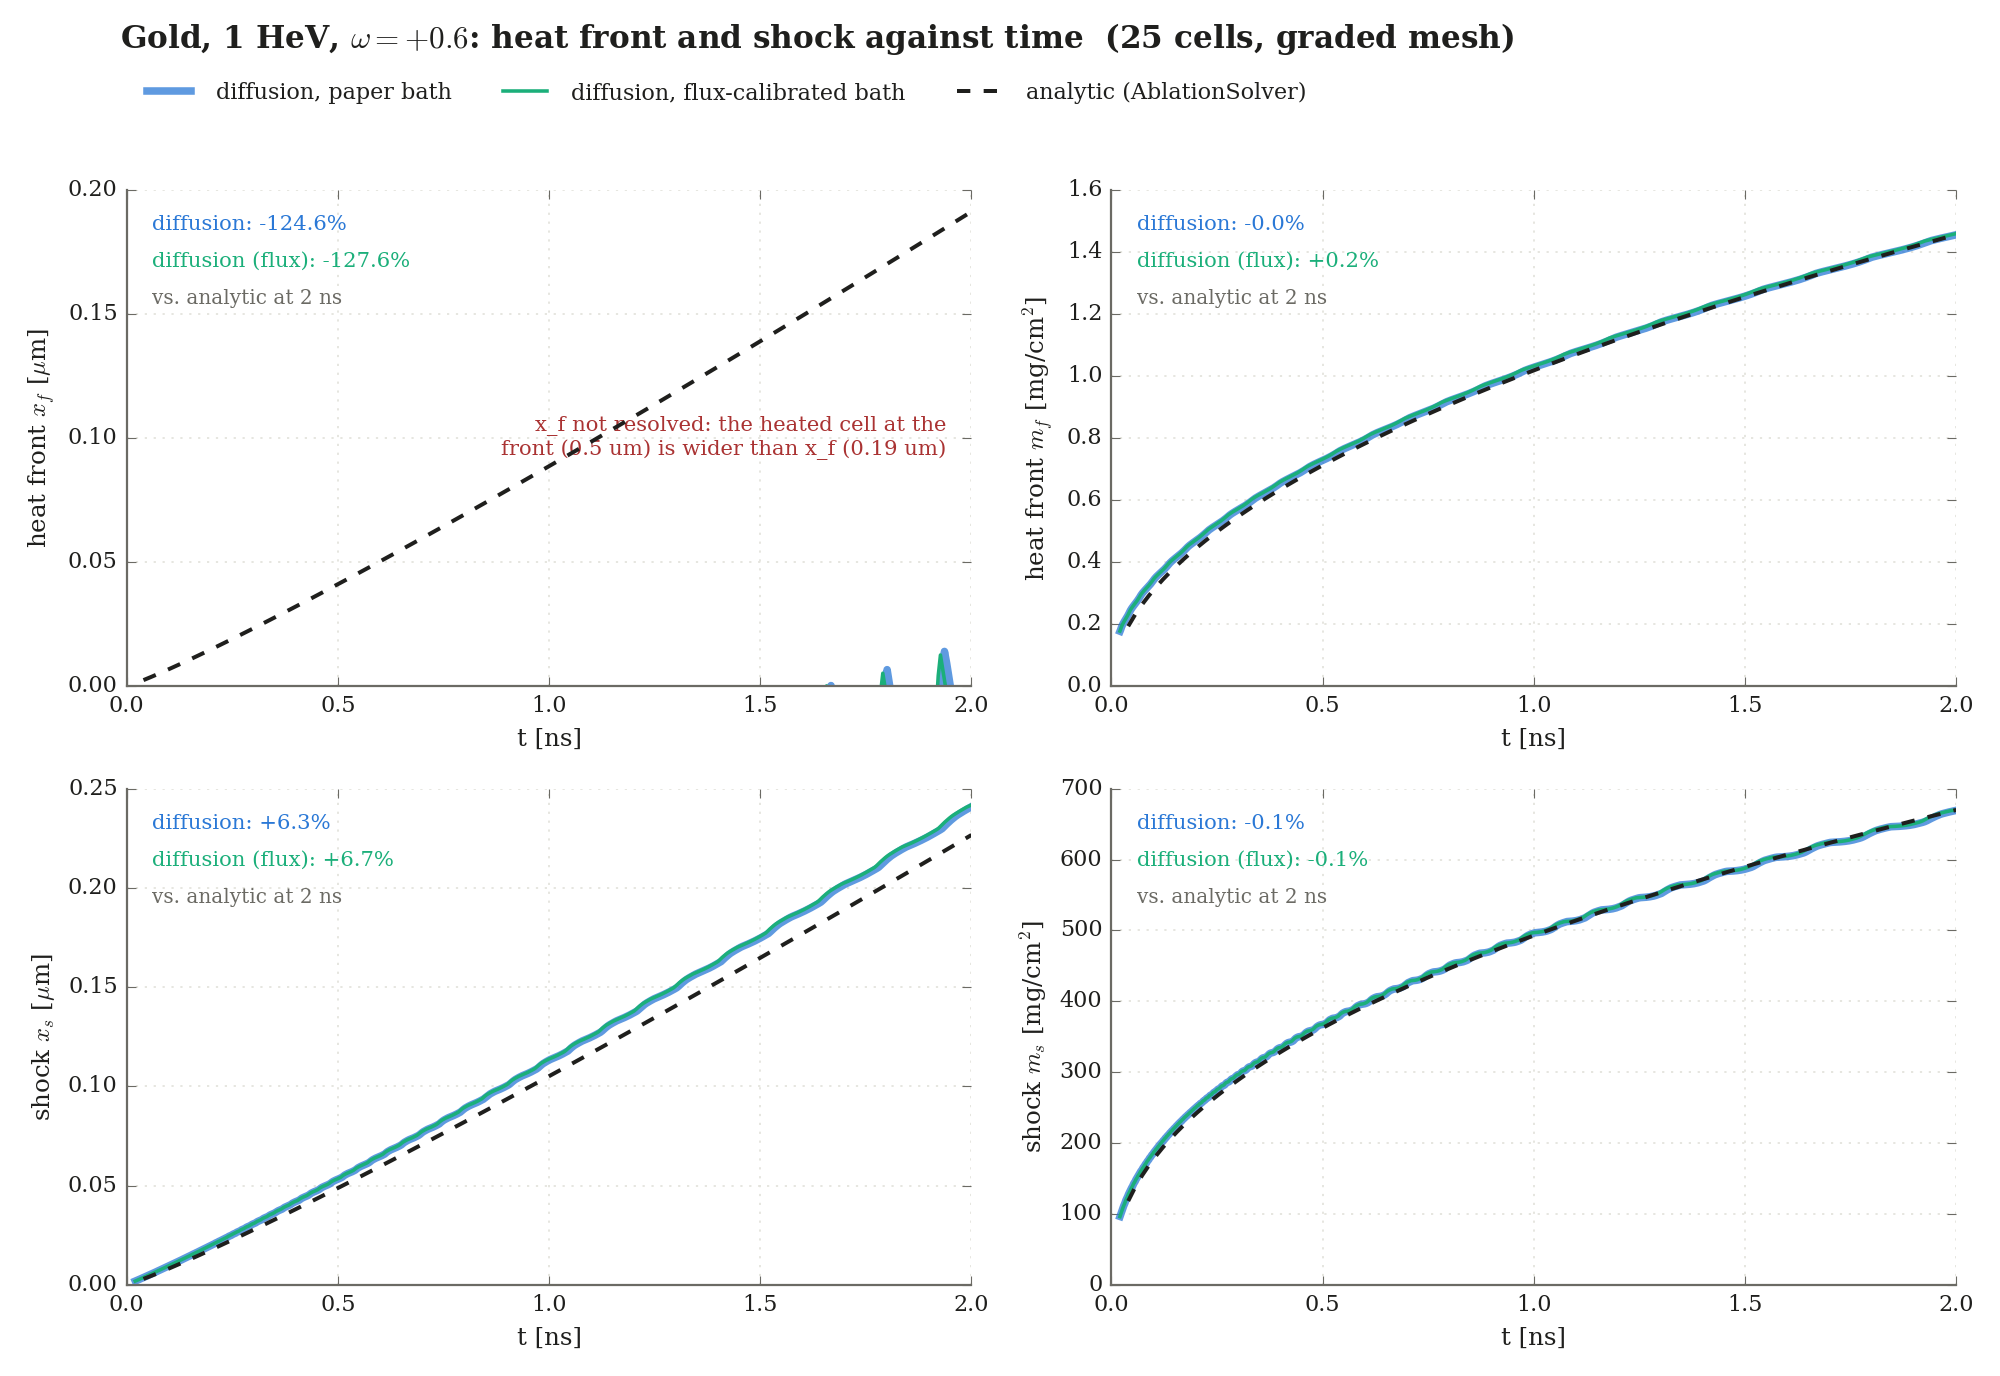
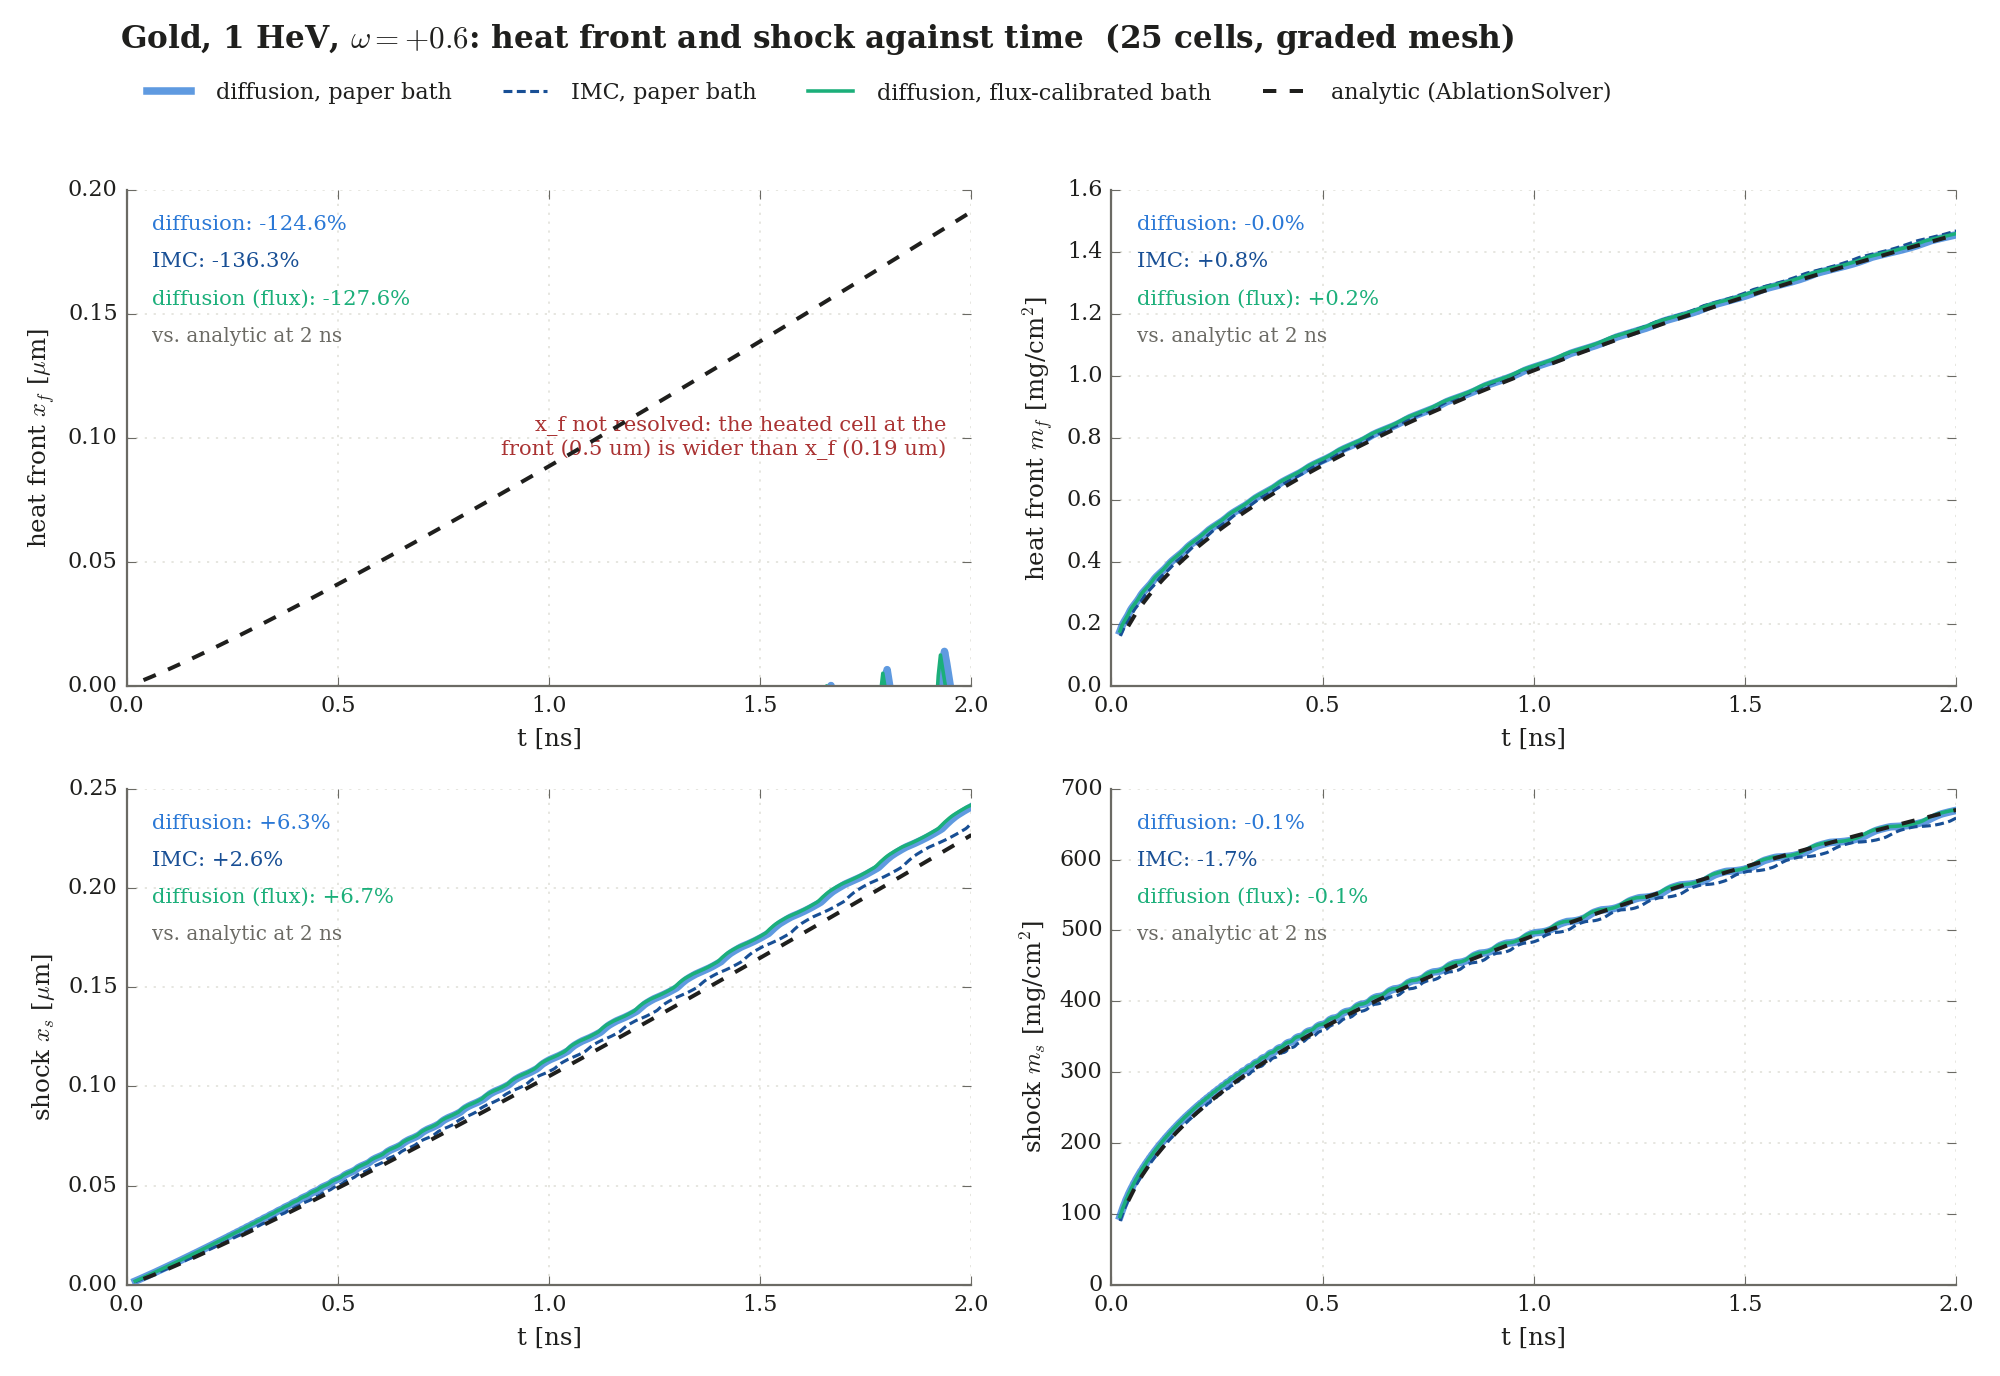
omega sweep: +0.6 IMC (paper bath): shock position +2.6% against diffusion's +6.3%

diff --git a/md/phase_c/omega_sweep/README.md b/md/phase_c/omega_sweep/README.md
@@ -43,6 +43,7 @@ Simulation vs. `AblationSolver`, in %; + means the simulation is ahead.
 | | diffusion, flux-calibrated | −8.7 | −1.2 | −0.5 | −3.2 |
 | | IMC, flux-calibrated | −10.4 | −1.9 | −1.7 | −3.5 |
 | +0.6 | diffusion, paper | not resolved | 0.0 | +6.3 | −0.1 |
+| | IMC, paper | not resolved | +0.8 | +2.6 | −1.7 |
 | | diffusion, flux-calibrated | not resolved | +0.2 | +6.7 | −0.1 |
 
 What it shows:
@@ -50,7 +51,7 @@ What it shows:
 - **The flux-calibrated bath roughly halves or thirds the shock deficit for ω < 0** (−16 → −5% at ω = −0.8). It does so by driving more energy in, so the heat front's *mass* m_f runs further ahead (+17 → +34%); its *position* x_f then lands on the solver's. For ω ≥ 0 the two baths agree within ~1%.
 - **IMC follows diffusion** within 0.1–2.1 percentage points on every quantity, under both baths; its shock is consistently slightly behind diffusion's, by 0.3–1.7 points in mass.
 - **x_f for ω > 0 is limited by the cell at the front**, while m_f agrees within ~1%. The front's position is interpolated between cell centres, and the heated cell holding it is 0.1–0.5 µm wide, against x_f = 3.3 µm (+0.2), 1.0 µm (+0.4) and 0.19 µm (+0.6). Taking the position from the dense side of the front instead (the first cold cell, stepped back to m_f) gives −2.1% at +0.2 and −7.9% at +0.4, so part of the x_f deficit there is real and part is this interpolation; for ω ≤ 0 the two definitions agree within 0.7 points. At +0.6 the heated cell (0.53 µm) is wider than x_f itself, so x_f is not resolved and is left out of the summary.
-- **ω = +0.6** (graded mesh, 1.14 million steps): the heat front's mass and the shock's mass agree with the solver to 0.1%; the shock position is +6.3% ahead, which fits the low density behind the ablation front that Test 3 shows on the same mesh (`../phase_c_tests3to6_results.md`).
+- **ω = +0.6** (graded mesh, 1.14 million steps): the heat front's mass and the shock's mass agree with the solver to 0.1%; the shock position is +6.3% ahead, which fits the low density behind the ablation front that Test 3 shows on the same mesh (`../phase_c_tests3to6_results.md`). IMC's shock position is much closer to the solver (+2.6%), as in Test 3, where IMC's density behind the front is higher than diffusion's and nearer the solver's: the likely cause is gray diffusion without a flux limiter preheating the cold dense matter ahead of the front.
 
 ## What was run, and what was skipped
 
@@ -60,7 +61,7 @@ What it shows:
 | 0 | 657, uniform in mass | 76 s | converged after 4 runs; then diffusion, 32 s | 1 seed per bath |
 | +0.2 | 1510, uniform in mass | 186 s | converged after 3 runs; then diffusion, 100 s | 1 seed per bath, 7–10 min |
 | +0.4 | 347, graded (Test 3's) | 555 s | converged after 3 runs (0.16%); then diffusion | 1 seed per bath, ~50 min |
-| +0.6 | 347, graded | ~1 h of compute, 1.14 million steps, with the first step at 10⁻¹² t_end (below) | converged after 3 runs (0.17%); then diffusion, 11 min | running |
+| +0.6 | 347, graded | ~1 h of compute, 1.14 million steps, with the first step at 10⁻¹² t_end (below) | converged after 3 runs (0.17%); then diffusion, 11 min | 1 seed, paper bath, 2.4 h (flux bath: running) |
 | +0.8 | — | **not simulated** (below); the solver exists | — | — |
 
 The uniform-mass meshes put ≥ 40 cells across the ablated layer at 2 ns (cells = 40 × 1.15 m_s/m_f, 400 to 2000). From ω = +0.4 the shocked mass is ≥ 100× the ablated one, so the graded mesh of Test 3 is used. Its shocked region has coarse cells, which costs a few % in the shock (Test 3: −2% on this mesh).
